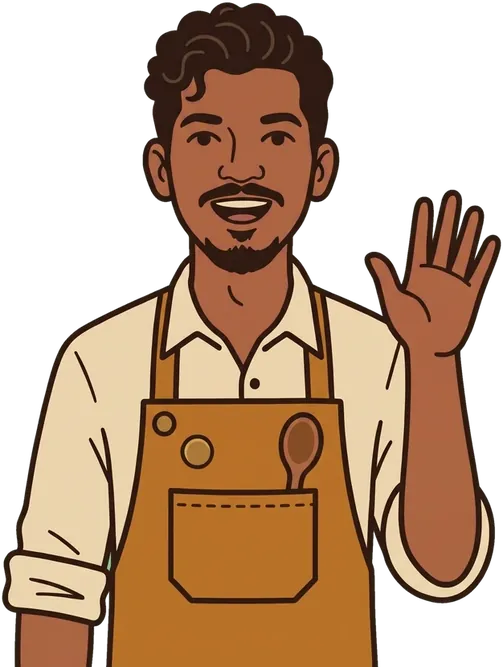
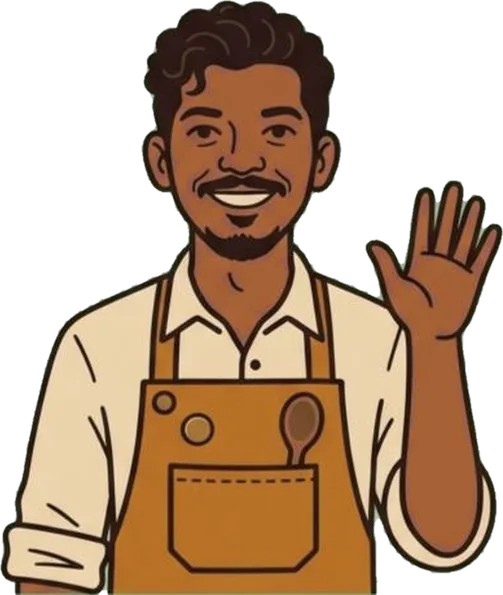
New consistent barista frames from the Gemini character sheets (talk, blink, wave, reactions, receipt, jar, plate, book)
Claude-Session: https://claude.ai/code/session_01M7PDTuVyJJ1kuWZYfUFzFc

diff --git a/js/scene.js b/js/scene.js
@@ -95,21 +95,33 @@
   })();
   const MOODS = ["crossed", "think", "phone"];
 
+  /* he blinks every few seconds, like a person does */
+  (function blinkLoop() {
+    setTimeout(() => {
+      if (!reduce && !document.hidden && now() === "idle" && !talkTimer && hasPose("blink")) {
+        frame("blink");
+        setTimeout(() => { if (now() === "blink") frame("idle"); }, 140);
+      }
+      blinkLoop();
+    }, 2600 + Math.random() * 3400);
+  })();
+
   /* talking: his mouth and hands move while the words type out.
      Standing → open hands (mouth shut / mouth open). Waving → he keeps waving as he says hello. */
-  const TALK = ["shrug", "tada"], HELLO = ["wave1", "wave2", "wave3", "wave2", "wave3", "wave2", "wave1", "wave2", "wave3", "wave2"];
-  const talkSet = ["idle", ...MOODS, ...TALK, "wave1", "wave2", "wave3", "laugh", "point", "thumbs", "bill"];
+  /* mouth frames drawn on the standing pose itself, so only his lips move; now and then his hands open too */
+  const TALK = ["talk1", "talk2", "talk1", "idle", "talk2", "talk1", "idle", "talk1", "talk2", "talk1", "hands", "hands", "hands", "idle"], HELLO = ["wave1", "wave2", "wave3", "wave2", "wave3", "wave2", "wave1", "wave2", "wave3", "wave2"];
+  const talkSet = ["idle", "blink", ...MOODS, ...TALK, "shrug", "tada", "wave1", "wave2", "wave3", "laugh", "point", "thumbs", "bill"];
   let talkTimer = null;
   function talk(on) {
     barista.classList.toggle("talking", !!on);
     clearInterval(talkTimer); talkTimer = null;
     if (!talkSet.includes(now()) || held === now()) return; // hands busy, or holding a reaction: just the little bob
-    if (!on || reduce || !hasPose("shrug")) { if (now() !== "idle") pose("idle", false, false); return; }
+    if (!on || reduce || !hasPose("talk1")) { if (now() !== "idle") pose("idle", false, false); return; }
     const hello = now() === "wave1" ? [...HELLO] : [];
     let i = 0;
     talkTimer = setInterval(() => {
       if (!talkSet.includes(now()) || held === now()) { clearInterval(talkTimer); talkTimer = null; return; } // he walked off mid-sentence
-      frame(hello.length ? hello.shift() : TALK[i++ % 2]);
+      frame(hello.length ? hello.shift() : TALK[i++ % TALK.length]);
     }, 170);
   }
 
@@ -249,7 +261,7 @@
     if (HANDED.includes(it.art)) return "serve";
     return null;
   }
-  const PLATE_TOP = [803, 522];                 // where the plate sits in the plate pose
+  const PLATE_TOP = [802, 514];                 // where the plate sits in the plate pose
 
   /* He takes the marker from his pocket and writes the name on the cup. A comic
      close-up shows the letters landing one by one, in step with his pen. */
@@ -304,8 +316,8 @@
         let tag = null;
         if (give === "jar") {                   // the jar in his hands wears this jar's own label
           tag = document.createElementNS(NS, "g");
-          tag.innerHTML = `<rect x="${bx - 9}" y="478" width="34" height="24" rx="3" fill="${it.jarColor || "#B5452E"}" stroke="#2A1A12" stroke-width="2.2"/>
-            <path d="M${bx - 3},486 h22 M${bx + 1},493 h14" stroke="#FBF7EE" stroke-opacity=".85" stroke-width="2" stroke-linecap="round"/>`;
+          tag.innerHTML = `<rect x="${bx - 31}" y="494" width="66" height="42" rx="4" fill="${it.jarColor || "#B5452E"}" stroke="#2A1A12" stroke-width="2.6"/>
+            <path d="M${bx - 18},508 h40 M${bx - 10},520 h24" stroke="#FBF7EE" stroke-opacity=".85" stroke-width="3" stroke-linecap="round"/>`;
           barista.after(tag);                   // just in front of him, still behind the counter
         }
         await wait(1300);

diff --git a/js/data.js b/js/data.js
@@ -44,7 +44,7 @@ window.CAFE = {
       cloche: "assets/pose-cloche.webp",
       espresso: "assets/pose-espresso.webp",
       /* animation frames */
-      wave1: "assets/pose-wave1.webp", wave2: "assets/pose-wave2.webp", wave3: "assets/pose-wave3.webp", shrug: "assets/pose-shrug.webp", tada: "assets/pose-tada.webp", crossed: "assets/pose-crossed.webp", think: "assets/pose-think.webp", phone: "assets/pose-phone.webp", laugh: "assets/pose-laugh.webp", point: "assets/pose-point.webp", thumbs: "assets/pose-thumbs.webp", bill: "assets/pose-bill.webp", jar: "assets/pose-jar.webp", brew: "assets/pose-brew.webp", tongs1: "assets/pose-tongs1.webp", tongs2: "assets/pose-tongs2.webp", tongs3: "assets/pose-tongs3.webp", write1: "assets/pose-write1.webp", write2: "assets/pose-write2.webp", write3: "assets/pose-write3.webp", write4: "assets/pose-write4.webp", write5: "assets/pose-write5.webp",
+      blink: "assets/pose-blink.webp", talk1: "assets/pose-talk1.webp", talk2: "assets/pose-talk2.webp", hands: "assets/pose-hands.webp", wave1: "assets/pose-wave1.webp", wave2: "assets/pose-wave2.webp", wave3: "assets/pose-wave3.webp", shrug: "assets/pose-shrug.webp", tada: "assets/pose-tada.webp", crossed: "assets/pose-crossed.webp", think: "assets/pose-think.webp", phone: "assets/pose-phone.webp", laugh: "assets/pose-laugh.webp", point: "assets/pose-point.webp", thumbs: "assets/pose-thumbs.webp", bill: "assets/pose-bill.webp", jar: "assets/pose-jar.webp", brew: "assets/pose-brew.webp", tongs1: "assets/pose-tongs1.webp", tongs2: "assets/pose-tongs2.webp", tongs3: "assets/pose-tongs3.webp", write1: "assets/pose-write1.webp", write2: "assets/pose-write2.webp", write3: "assets/pose-write3.webp", write4: "assets/pose-write4.webp", write5: "assets/pose-write5.webp",
     },
     /* Optional: put your PDF resume at assets/John-Paul-Minj-Resume.pdf and
        set this to that path. A download button appears in the CV view. */

diff --git a/js/art.js b/js/art.js
@@ -213,30 +213,34 @@ window.ART = (function () {
 
   /* where each pose image sits so the heads line up (head centred on x = 0, hair top at y = 205) */
   const POSE_BOX = {
-    idle: [-153, 203, 313, 541],   // standing, arms down
+    idle: [-153, 204, 310, 375],   // standing, arms down (Gemini sheet 1)
+    blink: [-153, 204, 310, 375],
+    talk1: [-153, 204, 310, 375],
+    talk2: [-153, 204, 310, 375],
+    hands: [-202, 205, 411, 405],
     walk: [-262, 152, 488, 600],
     serve: [-205, 143, 384, 472],
     reach: [-182, 118, 418, 514],
-    plate: [-205, 143, 384, 472],
+    plate: [-155, 170, 315, 451],
     togo: [-205, 143, 384, 472],
     write: [-205, 143, 384, 472],
-    book: [-205, 143, 384, 472],
+    book: [-156, 170, 315, 451],
     cloche: [-414, 153, 812, 453],
     espresso: [-411, 153, 806, 450],
     /* frames for the small animations (hello wave, talking, reactions, tongs, writing on the cup) */
-    wave1: [-154, 204, 325, 412],
-    wave2: [-153, 203, 325, 430],
-    wave3: [-153, 203, 328, 430],
+    wave1: [-153, 204, 324, 384],
+    wave2: [-160, 204, 325, 384],
+    wave3: [-222, 205, 438, 404],
     shrug: [-204, 204, 383, 412],
-    tada: [-203, 204, 382, 412],
-    crossed: [-136, 204, 279, 411],
-    think: [-126, 204, 263, 438],
-    phone: [-192, 204, 360, 412],
-    laugh: [-154, 204, 314, 412],
-    point: [-169, 204, 326, 464],
-    thumbs: [-158, 203, 320, 438],
-    bill: [-199, 203, 392, 580],
-    jar: [-155, 204, 320, 412],
+    tada: [-233, 205, 459, 407],
+    crossed: [-141, 205, 288, 404],
+    think: [-146, 205, 295, 386],
+    phone: [-173, 205, 384, 406],
+    laugh: [-153, 205, 311, 399],
+    point: [-171, 205, 328, 392],
+    thumbs: [-155, 205, 313, 405],
+    bill: [-155, 170, 311, 434],
+    jar: [-152, 170, 310, 434],
     brew: [-192, 203, 449, 583],
     tongs1: [-247, 223, 441, 563],
     tongs2: [-213, 224, 406, 563],
